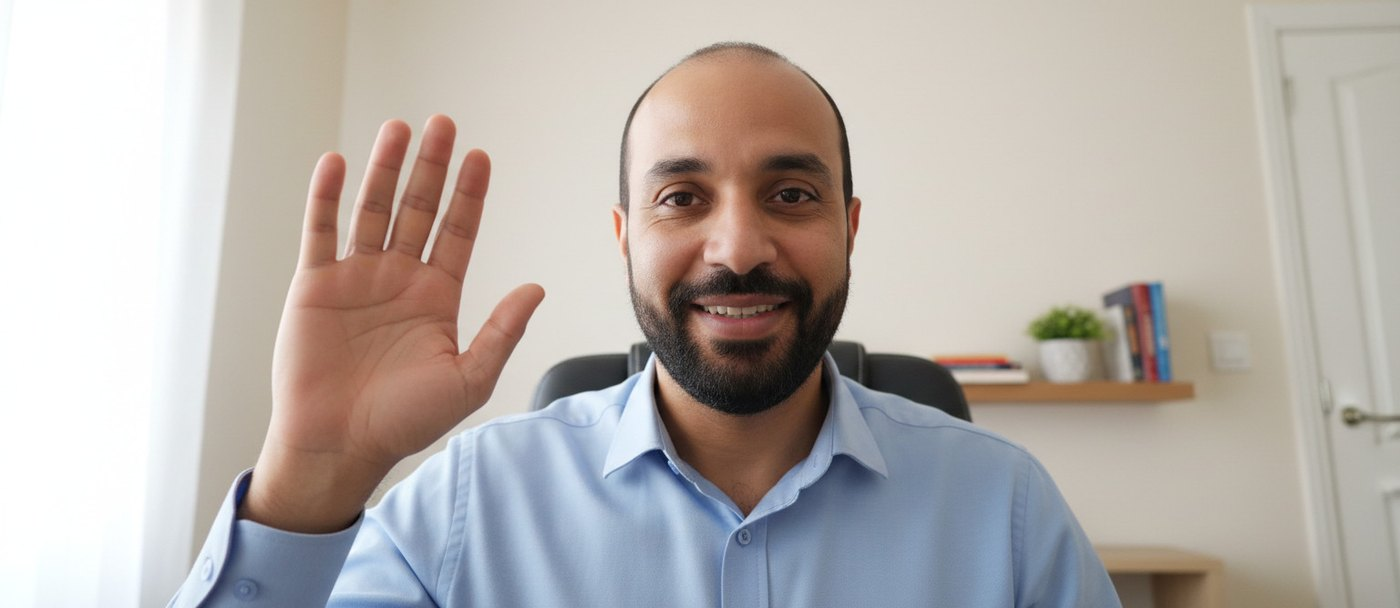
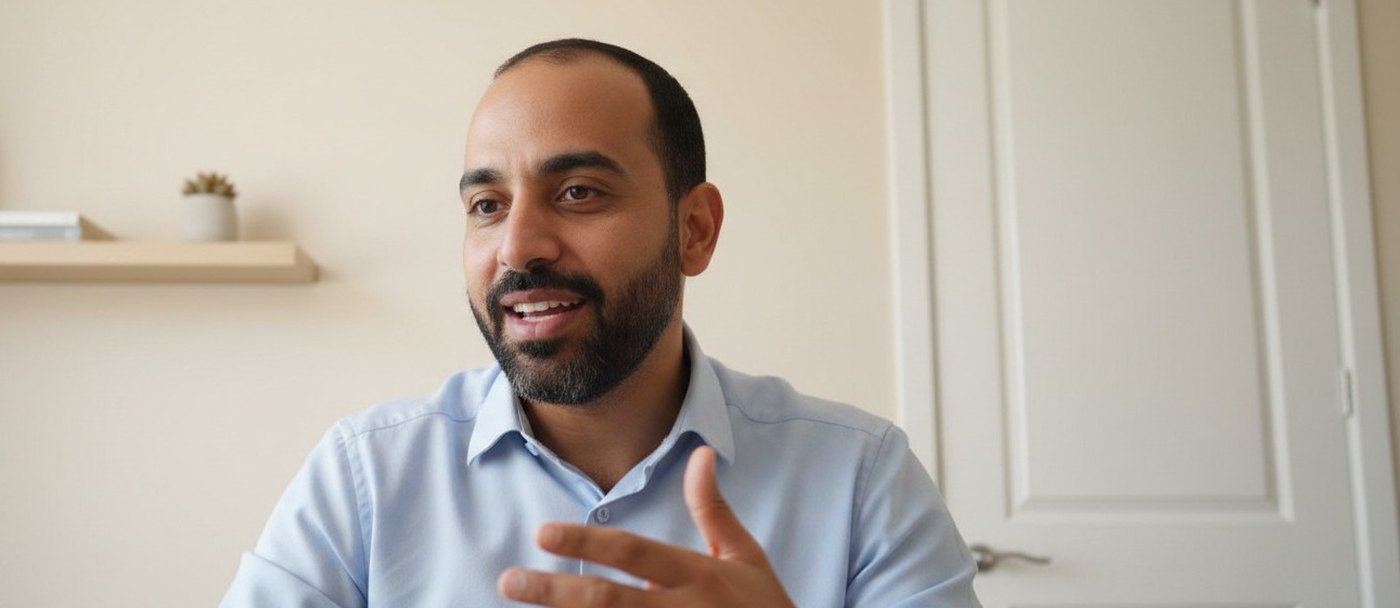
Кадр звонка живее, каналы связи сняты, хвост отзывов подобран
Снимки звонка были зеркальными: оба смотрят в объектив и машут одинаковым
жестом — два манекена вместо разговора. Пересняты по ролям: менеджер на
середине фразы, с рукой в жесте, сидит левее центра; собеседница слушает,
подперев подбородок, голова чуть набок. Разная поза, разное занятие, никто
не позирует.

У обоих кадров пришлось срезать края: у мужского слева влезал ноутбук,
у женского по периметру шло чёрное кольцо объектива.

Полоса каналов связи (Phone calls / Email / Zoom / WhatsApp) убрана из
блока менеджера вместе с четырьмя её правилами.

В отзывах оговорка и кнопка сведены в одну группу. Порознь их разводил
общий шаг контейнера в 56 px, и строка в 12 px висела ровно посередине
между сеткой и кнопкой, не относясь ни к той, ни к другой. Внутри группы
шаг 18 px, общий шаг работает один раз — до группы.

diff --git a/src/partials/09-social-proof.html b/src/partials/09-social-proof.html
@@ -128,17 +128,22 @@
 
     </ul>
 
-    <!-- Оговорка стоит НАД кнопкой. Под кнопкой она была последней строкой
-         секции и читалась подписью ко всему блоку разом; здесь она замыкает
-         истории — то, к чему и относится, — а кнопка остаётся последней и
-         забирает внимание себе. -->
-    <p class="s-09__note">Individual results vary and depend on the work you put in.</p>
+    <!-- Оговорка и кнопка — одна группа, а не два самостоятельных ряда.
+         Порознь их разводил общий шаг контейнера (56 px), и строка в 12 px
+         висела ровно посередине между сеткой и кнопкой, не относясь ни к
+         той, ни к другой. Внутри группы шаг свой, короткий.
 
-    <div class="s-09__actions">
-      <a class="btn btn--primary s-09__cta" href="#footer-cta">
-        Start your own story
-        <img src="assets/img/icons/arrow-right-white.svg" alt="" width="18" height="18">
-      </a>
+         Оговорка стоит НАД кнопкой: под кнопкой она была последней строкой
+         секции и читалась подписью ко всему блоку разом. -->
+    <div class="s-09__foot">
+      <p class="s-09__note">Individual results vary and depend on the work you put in.</p>
+
+      <div class="s-09__actions">
+        <a class="btn btn--primary s-09__cta" href="#footer-cta">
+          Start your own story
+          <img src="assets/img/icons/arrow-right-white.svg" alt="" width="18" height="18">
+        </a>
+      </div>
     </div>
 
   </div>

diff --git a/src/partials/10b-growth-manager.html b/src/partials/10b-growth-manager.html
@@ -90,15 +90,6 @@
       </li>
     </ul>
 
-    <!-- Каналы связи. Список, а не набор span-ов: это перечисление, и
-         скринридер обязан сказать, сколько их. -->
-    <ul class="s-10b__channels reveal">
-      <li class="s-10b__channel"><svg viewBox="0 0 24 24" fill="none" stroke="currentColor" stroke-width="1.7" stroke-linecap="round" stroke-linejoin="round" aria-hidden="true"><path d="M5 4h4l2 5-2.5 1.5a11 11 0 0 0 5 5L15 13l5 2v4a2 2 0 0 1-2 2A16 16 0 0 1 3 6a2 2 0 0 1 2-2z"/></svg>Phone calls</li>
-      <li class="s-10b__channel"><svg viewBox="0 0 24 24" fill="none" stroke="currentColor" stroke-width="1.7" stroke-linecap="round" stroke-linejoin="round" aria-hidden="true"><rect x="3" y="5" width="18" height="14" rx="2"/><path d="M3 7l9 6 9-6"/></svg>Email</li>
-      <li class="s-10b__channel"><svg viewBox="0 0 24 24" fill="none" stroke="currentColor" stroke-width="1.7" stroke-linecap="round" stroke-linejoin="round" aria-hidden="true"><rect x="3" y="6" width="13" height="12" rx="2"/><path d="M16 10l5-3v10l-5-3z"/></svg>Zoom</li>
-      <li class="s-10b__channel"><svg viewBox="0 0 24 24" fill="none" stroke="currentColor" stroke-width="1.7" stroke-linecap="round" stroke-linejoin="round" aria-hidden="true"><path d="M21 12a8 8 0 0 1-8 8H8l-5 3 1.5-4.5A8 8 0 1 1 21 12z"/></svg>WhatsApp</li>
-    </ul>
-
     <figure class="s-10b__quote reveal">
       <!-- Кадр настоящий, не заглушка: ролик и снимок переехали сюда из
            секции 11 вместе с её цитатой, когда два блока про менеджера

diff --git a/src/css/10b-growth-manager.css b/src/css/10b-growth-manager.css
@@ -324,38 +324,6 @@
 }
 
 
-/* --- Каналы связи ---------------------------------------------------------
-   Полоса между двумя волосками. Разделители мягкие: полоса перечисляет
-   способы связаться, а не спорит за внимание с карточками над ней.
-   -------------------------------------------------------------------------- */
-.s-10b__channels {
-    display: flex;
-    flex-wrap: wrap;
-    justify-content: center;
-    gap: 16px 28px;
-    width: 100%;
-    max-width: 1200px;
-    padding-block: 22px;
-    border-top: 1px solid var(--c-line-soft);
-    border-bottom: 1px solid var(--c-line-soft);
-    font-size: 15px;
-    color: var(--c-text-strong);
-}
-
-.s-10b__channel {
-    display: inline-flex;
-    align-items: center;
-    gap: 10px;
-}
-
-.s-10b__channel svg {
-    flex: none;
-    width: 18px;
-    height: 18px;
-    color: var(--c-green-bright);
-}
-
-
 /* --- Цитата ---------------------------------------------------------------- */
 .s-10b__quote {
     display: grid;
@@ -518,8 +486,6 @@
     }
 
     .s-10b__cards { grid-template-columns: repeat(2, minmax(0, 1fr)); }
-
-    .s-10b__channels { gap: 20px 44px; }
 
     .s-10b__quote { padding: 32px; }
 }

diff --git a/src/css/09-social-proof.css b/src/css/09-social-proof.css
@@ -225,7 +225,17 @@
 }
 
 
-/* --- Кнопка --------------------------------------------------------------- */
+/* --- Хвост: оговорка и кнопка --------------------------------------------- */
+.s-09__foot {
+    display: flex;
+    flex-direction: column;
+    align-items: center;
+  /* Свой шаг, короткий: оговорка относится к кнопке, а не живёт отдельным
+     рядом. Общий шаг контейнера здесь работает один раз — между сеткой
+     историй и этой группой. */
+    gap: 18px;
+}
+
 .s-09__actions {
     display: flex;
 }
